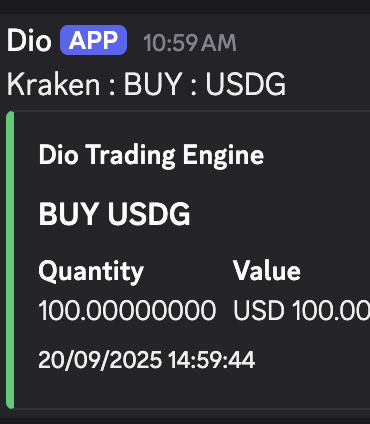
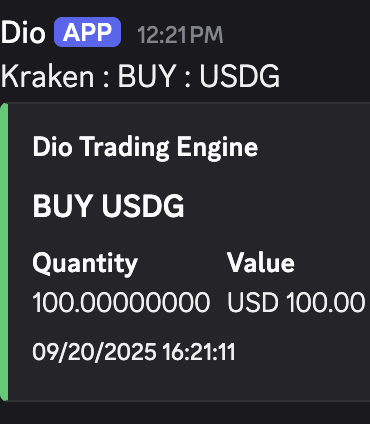
update

diff --git a/readme.md b/readme.md
@@ -75,11 +75,11 @@ Edit `_config.json` (example):
 
 ## Notification
 
-### Discord
+### Balance Updates
 ![Balances](balances.png)
 
+### Order Execution Alerts
 ![Buy Alert](buy.png)
-
 ![Sell Alert](sell.png)
 
 ## Development
